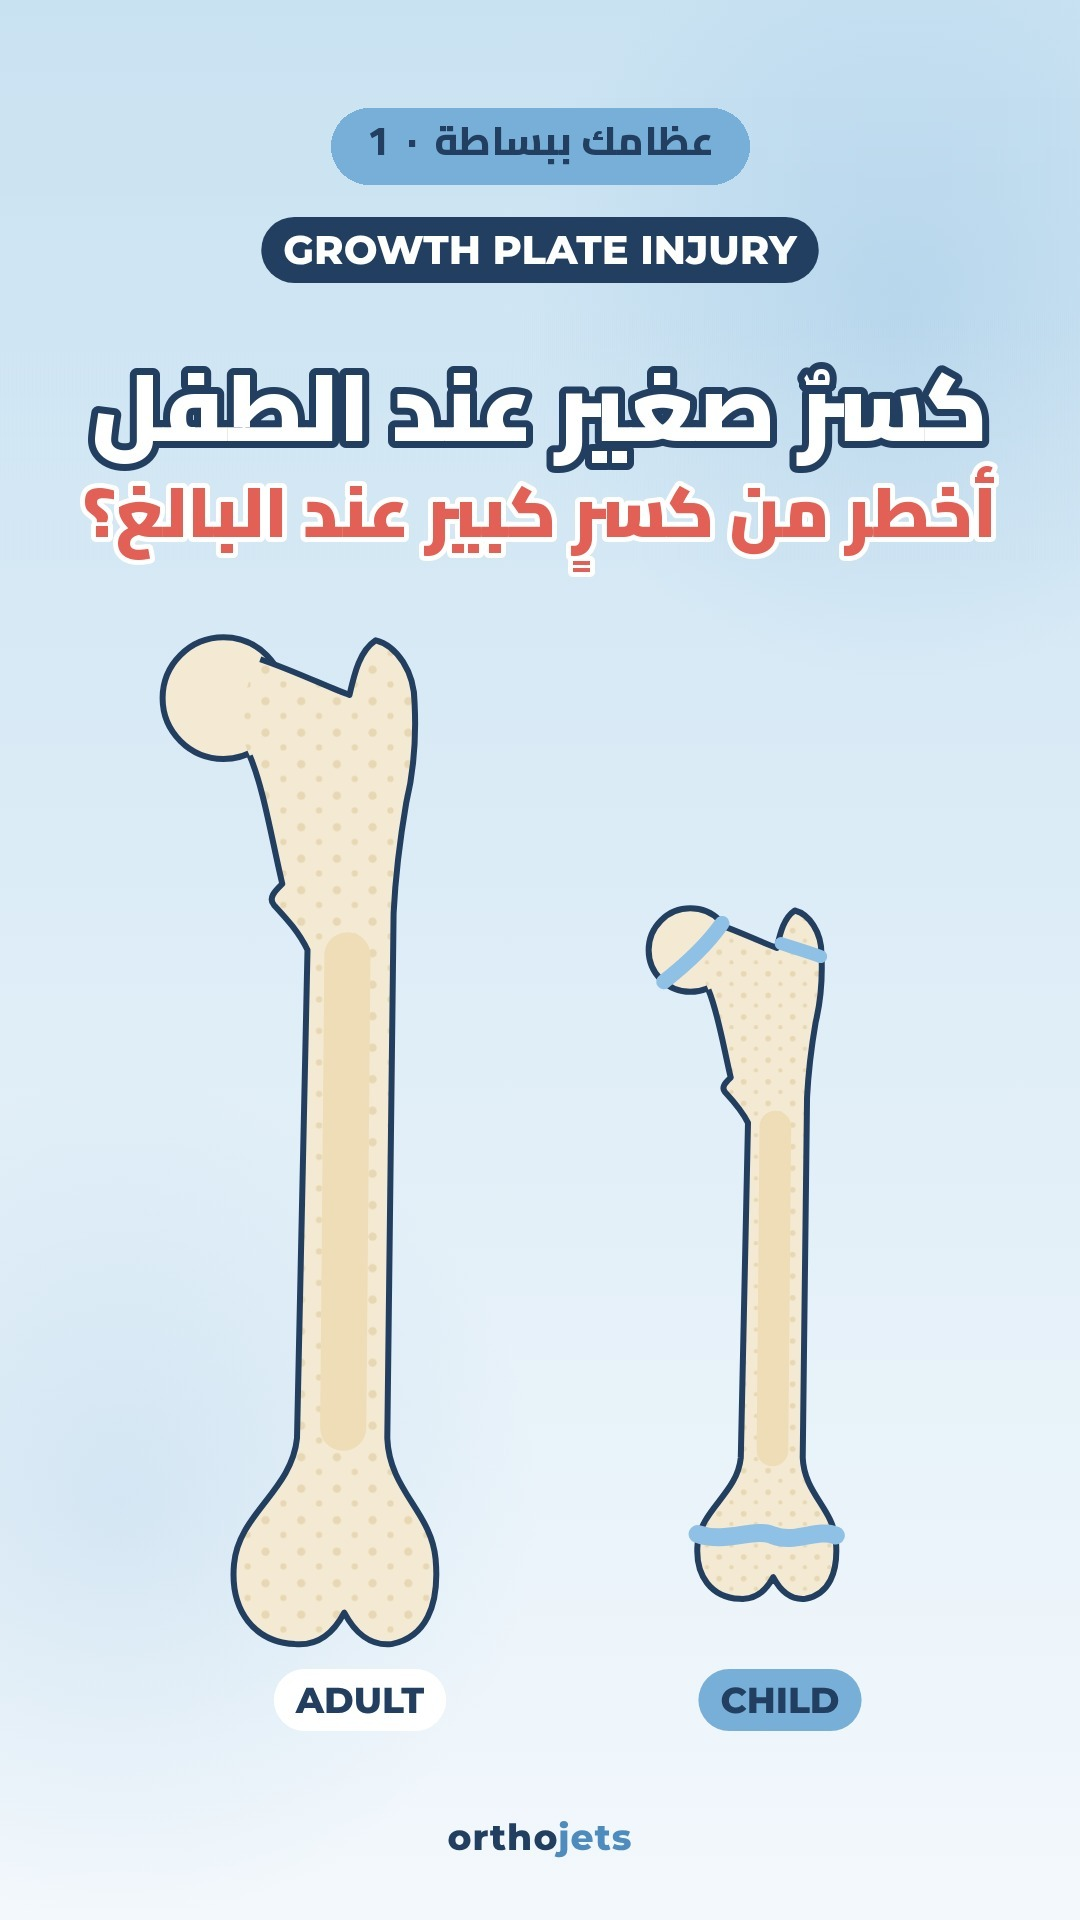
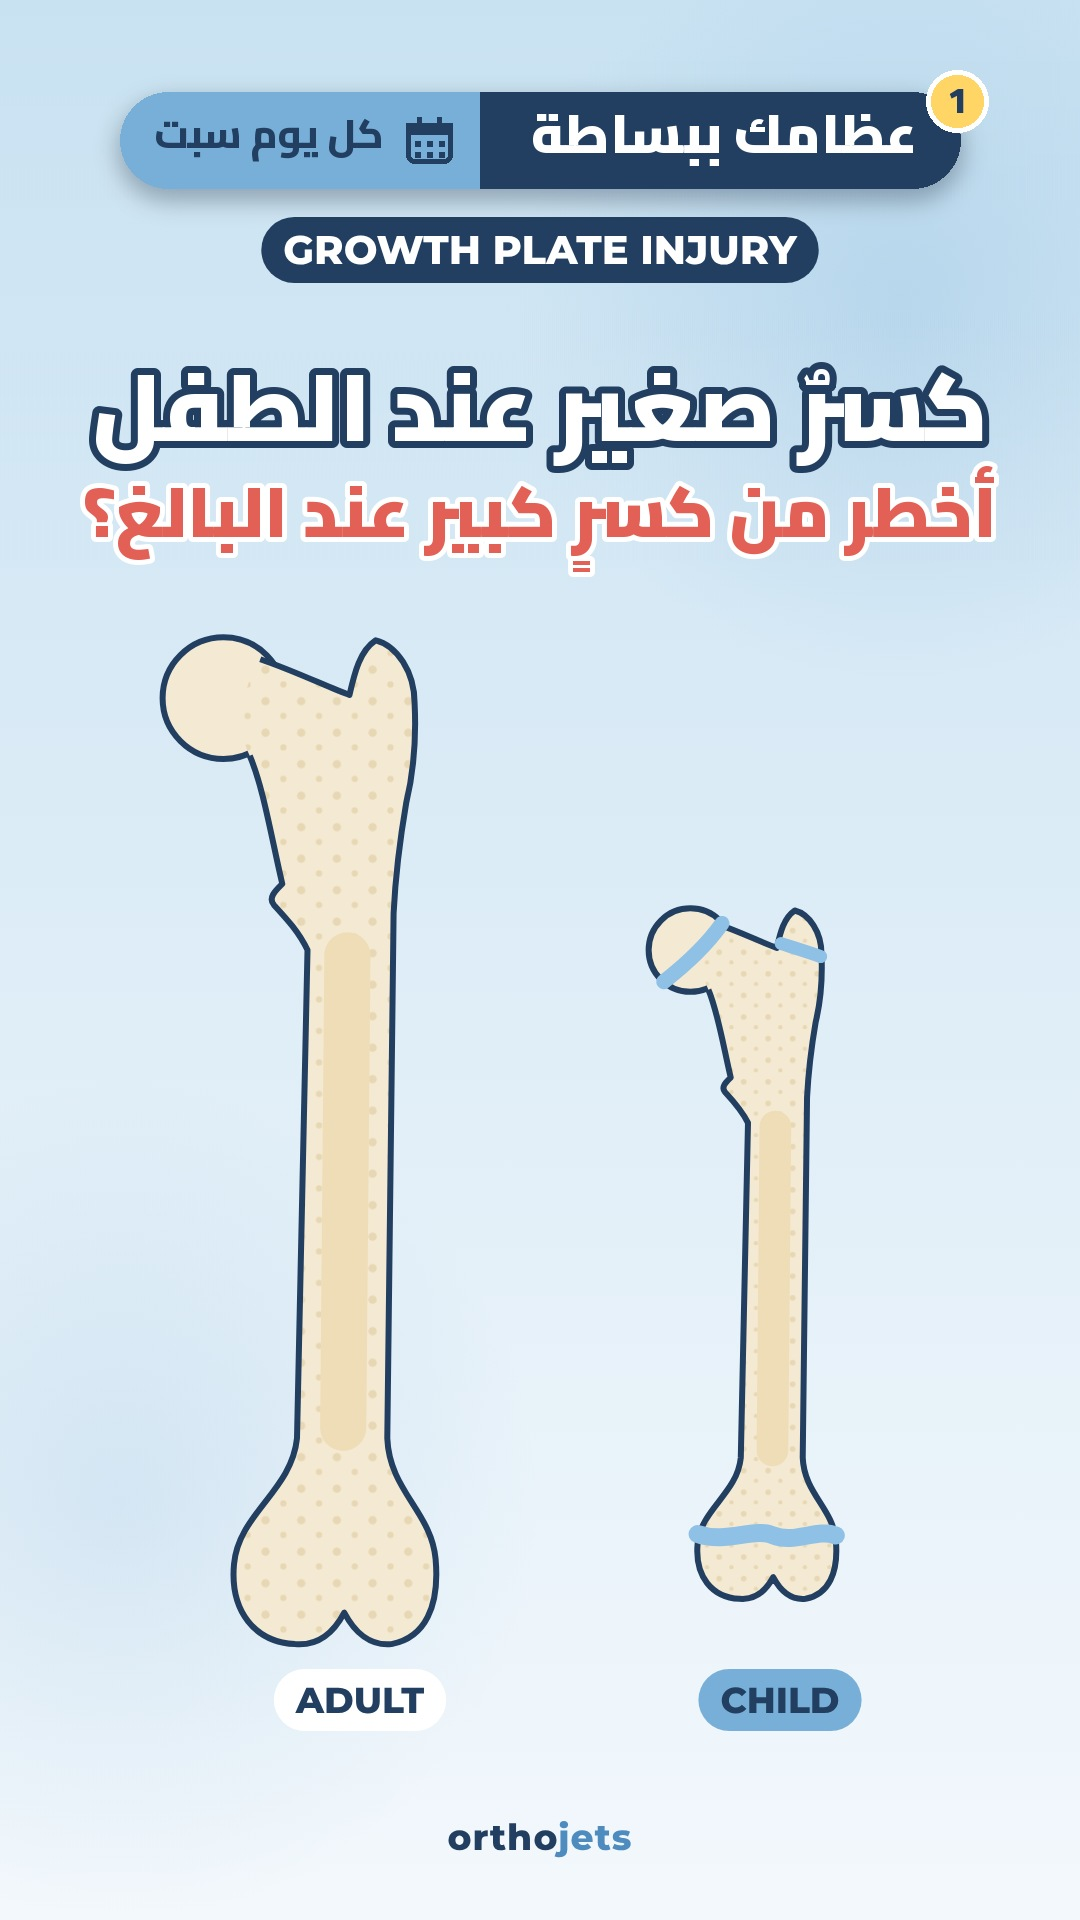
Arabic cover: series badge «عظامك ببساطة · كل يوم سبت» (make_cover.py)
Claude-Session: https://claude.ai/code/session_01QFmjz5zqFWcEmb38Y38QAJ

Changed region(s): [[0.0917, 0.0312, 0.9167, 0.125], [0.1222, 0.1875, 0.1528, 0.2188], [0.0917, 0.2188, 0.1222, 0.25]]

diff --git a/arabic/tools/make_cover.py b/arabic/tools/make_cover.py
@@ -1,0 +1,82 @@
+#!/usr/bin/env python3
+"""Cover for «عظامك ببساطة» episodes (owner 2026-10-24: the cover must carry «عظامك ببساطة · كل يوم سبت»).
+
+usage: python3 make_cover.py STILL.png OUT.jpg N "سطر السؤال الأول" "سطر السؤال الثاني"
+STILL = a frame of the hook scene (its single caption word sits at y ~320-560 and is painted over here).
+Layout (top -> bottom): series badge (navy capsule «عظامك ببساطة» + sky tab «كل يوم سبت» with a calendar icon,
+episode number), the episode's English topic pill from the still, the two-line Arabic question, the hook art.
+"""
+import sys
+import numpy as np
+from PIL import Image, ImageDraw, ImageFont, ImageFilter
+import os
+FONT = os.path.join(os.path.dirname(os.path.dirname(os.path.abspath(__file__))), 'fonts', 'Cairo.ttf')
+NAVY, SKY, WHITE, CORAL, GOLD = (34, 63, 97), (120, 175, 216), (255, 255, 255), (226, 96, 86), (255, 214, 102)
+
+def F(size, wght=900):
+    f = ImageFont.truetype(FONT, size); f.set_variation_by_axes([wght]); return f
+
+def blend_rows(a, y0, y1):
+    top, bot = a[y0 - 1].copy(), a[y1 + 1].copy()
+    for y in range(y0, y1 + 1):
+        k = (y - y0) / (y1 - y0); a[y] = top * (1 - k) + bot * k
+
+def tsize(d, txt, f):
+    bb = d.textbbox((0, 0), txt, font=f, direction='rtl', language='ar'); return bb, bb[2] - bb[0], bb[3] - bb[1]
+
+def main():
+    still, out, n, l1, l2 = sys.argv[1:6]
+    im = Image.open(still).convert('RGB'); W, H = im.size
+    a = np.asarray(im).astype(np.float32)
+    blend_rows(a, 60, 200)        # room for the series badge
+    blend_rows(a, 315, 560)       # remove the single caption word
+    im = Image.fromarray(a.astype(np.uint8)).convert('RGBA')
+
+    # ---- series badge: navy capsule (series name) joined to a sky tab (every Saturday)
+    lay = Image.new('RGBA', (W, H)); d = ImageDraw.Draw(lay)
+    name, when = 'عظامك ببساطة', 'كل يوم سبت'
+    fn, fw = F(54), F(40, 800)
+    bbn, wn, hn = tsize(d, name, fn); bbw, ww, hw = tsize(d, when, fw)
+    icon = 46; pad = 34; gap = 22
+    tab_w = ww + icon + gap + 2 * pad; cap_w = wn + 2 * pad + 20; h = 96
+    total = cap_w + tab_w; x0 = (W - total) / 2; y0 = 92
+    # shadow
+    sh = Image.new('RGBA', (W, H)); ds = ImageDraw.Draw(sh)
+    ds.rounded_rectangle((x0, y0 + 10, x0 + total, y0 + h + 10), radius=h / 2, fill=(20, 40, 70, 90))
+    lay.alpha_composite(sh.filter(ImageFilter.GaussianBlur(12)))
+    d = ImageDraw.Draw(lay)
+    # RTL: series name on the RIGHT (read first), "every Saturday" tab on the LEFT
+    d.rounded_rectangle((x0, y0, x0 + total, y0 + h), radius=h / 2, fill=SKY + (255,))
+    d.rounded_rectangle((x0 + tab_w - 6, y0, x0 + total, y0 + h), radius=h / 2, fill=NAVY + (255,))
+    d.rectangle((x0 + tab_w - 6, y0, x0 + tab_w + h / 2, y0 + h), fill=NAVY + (255,))
+    # series name
+    cx = x0 + tab_w + cap_w / 2
+    d.text((cx - wn / 2 - bbn[0], y0 + h / 2 - hn / 2 - bbn[1]), name, font=fn, fill=WHITE, direction='rtl', language='ar')
+    # "every Saturday" + calendar icon (icon on the right of the text, RTL)
+    tx = x0 + pad; ty = y0 + h / 2 - hw / 2 - bbw[1]
+    d.text((tx - bbw[0], ty), when, font=fw, fill=NAVY, direction='rtl', language='ar')
+    ix = x0 + pad + ww + gap; iy = y0 + (h - icon) / 2
+    d.rounded_rectangle((ix, iy + 6, ix + icon, iy + icon), radius=8, outline=NAVY, width=5)
+    d.rectangle((ix, iy + 6, ix + icon, iy + 17), fill=NAVY)
+    for k in (0.28, 0.72): d.line((ix + icon * k, iy, ix + icon * k, iy + 12), fill=NAVY, width=5)
+    for r in range(2):
+        for c in range(3):
+            px, py = ix + 9 + c * 12, iy + 24 + r * 11; d.rectangle((px, py, px + 5, py + 5), fill=NAVY)
+    # episode number medal
+    m = 62; mx, my = x0 + total - m * 0.55, y0 - m * 0.35
+    d.ellipse((mx, my, mx + m, my + m), fill=GOLD + (255,), outline=WHITE, width=5)
+    fnum = F(36); bb, w_, h_ = tsize(d, str(n), fnum)
+    d.text((mx + m / 2 - w_ / 2 - bb[0], my + m / 2 - h_ / 2 - bb[1]), str(n), font=fnum, fill=NAVY)
+    im.alpha_composite(lay)
+
+    # ---- the question (two lines)
+    d = ImageDraw.Draw(im)
+    for y, txt, size, fill, stroke, sw in ((318, l1, 94, WHITE, NAVY, 7), (445, l2, 70, CORAL, WHITE, 5)):
+        f = F(size); bb, w_, h_ = tsize(d, txt, f)
+        while w_ > W - 80: size -= 4; f = F(size); bb, w_, h_ = tsize(d, txt, f)
+        d.text(((W - w_) / 2 - bb[0], y), txt, font=f, fill=fill, direction='rtl', language='ar', stroke_width=sw, stroke_fill=stroke)
+    im.convert('RGB').save(out, quality=93)
+    print(out)
+
+if __name__ == '__main__':
+    main()

diff --git a/arabic/PIPELINE.md b/arabic/PIPELINE.md
@@ -34,8 +34,8 @@ The weekday English episodes (Sun–Thu, PIPELINE.md) are unchanged.
    a separate reviewer agent must PASS the stills (correct anatomy, readable Arabic, nothing cut off, brand look).
 6. `python3 arabic/tools/build_ar.py EP SLUG --skip-tts` (~12 min). Check duration, audio (voice audible over music), frames.
 7. Independent fact-check agent: PASS per claim against PubMed, or fix / block.
-8. Cover: a frame with the FULL hook question (see ar01 cover.jpg: series pill «عظامك ببساطة · N», English topic pill,
-   two-line Arabic question, the hook illustration). Host video + cover with tools/publish_dir.sh.
+8. Cover (owner 2026-10-24): `python3 arabic/tools/make_cover.py EP/st/<hook still>.png EP/cover.jpg N "<line 1>" "<line 2>"` —
+   series badge «عظامك ببساطة» + «كل يوم سبت» with the episode number, the English topic pill, the two-line Arabic question, hook art. Host video + cover with tools/publish_dir.sh.
 9. Metricool (brand 7507086): ONE post for tiktok + instagram (REEL) + youtube (short), Saturday 10:00, same video.
    - Use `videoThumbnailUrl` = cover for instagram/youtube when accepted; otherwise fall back to `videoCoverMilliseconds`.
    - Caption: Arabic hook question, 3 short Arabic points, `📚` refs, "احفظه وشاركه مع من يهمه الأمر 💙",
